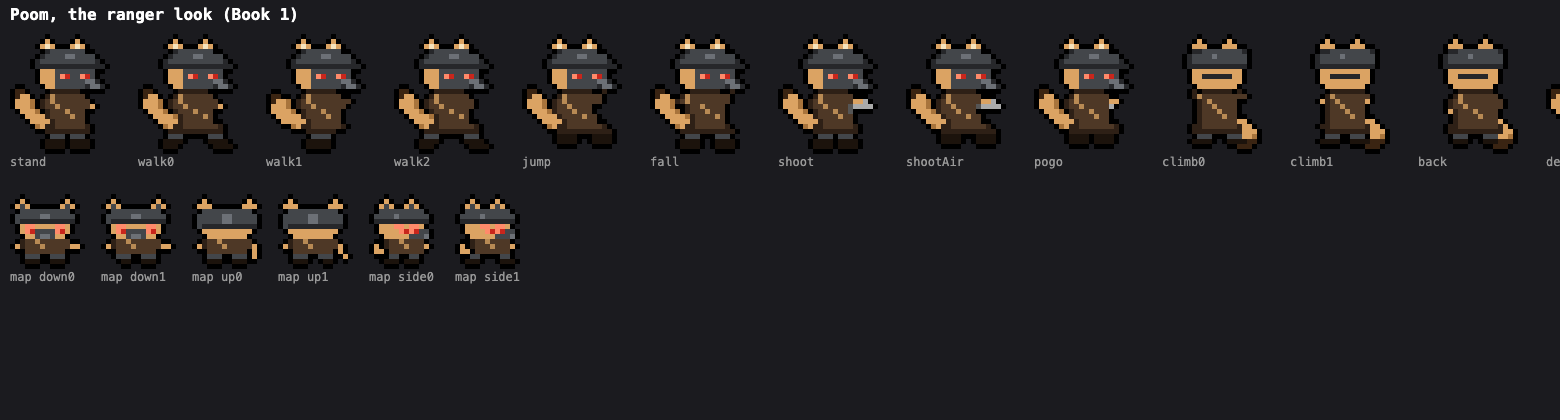
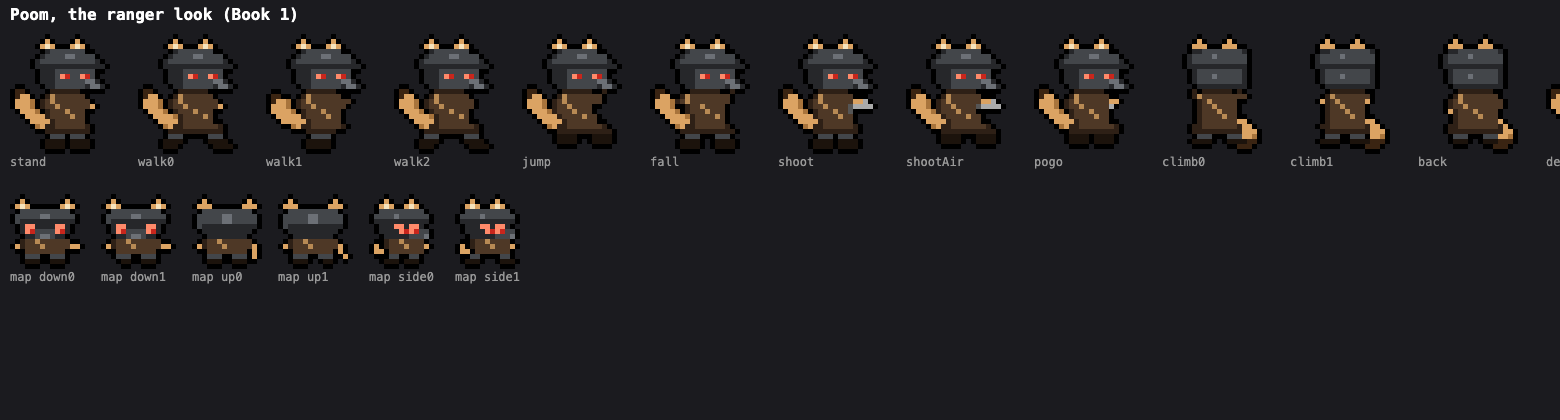
Ranger look: a full helmet, not a mask
The back of Poom's head is helmet now, darker steel round the faceplate,
so it reads as one shell; seen from behind, the whole head is helmet
with a seam; on the world map the cheeks and back of the head are
covered too. Ears still through the top.

diff --git a/js/art.js b/js/art.js
@@ -361,7 +361,7 @@ const LOOKS = {
       const b = rows.findIndex(r => r.includes("9"));
       return rows.map((r, y) => {
         /* the head from above: helmet, and the mask over the face */
-        if (y < b) return /[C4]/.test(r) ? recolour([r], { C: "p", F: "q", 4: "o" })[0] : recolour([r.replace(/F0/g, "sr")], { F: "s", i: "p", D: "q" })[0];
+        if (y < b) return /[C4]/.test(r) ? recolour([r], { C: "p", F: "q", 4: "o" })[0] : y < 2 ? r : recolour([r.replace(/F0/g, "sr")], { F: "s", i: "p", D: "q", g: "o" })[0];
         if (r.includes("9")) { const first = r.indexOf("9"); return [...r].map((c, x) => c !== "9" ? c : x === first ? "l" : x === first + (y - b) + 3 ? "t" : "m").join(""); }
         return recolour([r], { 5: y === b + 2 ? "m" : "p", C: "u" })[0];
       });
@@ -378,10 +378,10 @@ const RANGER_HEAD = [
   ".oppppqqpppp..",
   "opppppppppppo.",
   "oooooooooooooo",
-  ".gggpppppppp..",
-  ".gggpsrppsrp..",
-  ".gggppppppqqo.",
-  "..ggppppppoqqo",
+  ".ooopppppppp..",
+  ".ooopsrppsrp..",
+  ".oooppppppqqo.",
+  "..ooppppppoqqo",
 ];
 const RANGER_HEAD_BACK = [
   "..g.....g.....",
@@ -390,10 +390,10 @@ const RANGER_HEAD_BACK = [
   "oppppqpppppp..",
   "oppppppppppp..",
   "oooooooooooo..",
-  ".gggggggggg...",
-  ".ggoooooogg...",
-  ".gggggggggg...",
-  "..gggggggg....",
+  ".opppppppppo..",
+  ".opppqpppppo..",
+  ".opppppppppo..",
+  "..oooooooooo..",
 ];
 const RANGER_HEAD_OUT = [
   "..g.....g.....",
@@ -402,10 +402,10 @@ const RANGER_HEAD_OUT = [
   ".oppppqqpppp..",
   "opppppppppppo.",
   "oooooooooooooo",
-  ".gggpppppppp..",
-  ".gggpoopppoop.",
-  ".gggppppppqqo.",
-  "..ggppppppoqqo",
+  ".ooopppppppp..",
+  ".ooopoopppoop.",
+  ".oooppppppqqo.",
+  "..ooppppppoqqo",
 ];
 
 /* dress Poom: the sprites the game draws come from the look in use */

diff --git a/index.html b/index.html
@@ -171,7 +171,7 @@ kbd{font:inherit;color:var(--ega14)}
   <button data-a="pause" aria-label="Pause">II</button><button data-a="status" aria-label="Status">?</button>
 </div>
 <script src="js/gk-title.js?v=6080c669"></script>
-<script src="js/art.js?v=aa63eaf9"></script>
+<script src="js/art.js?v=1f73e8d2"></script>
 <script src="js/books/A.js?v=161a0844"></script>
 <script src="js/books/B.js?v=7a5b59b7"></script>
 <script src="js/books/C.js?v=b5bacdcf"></script>
